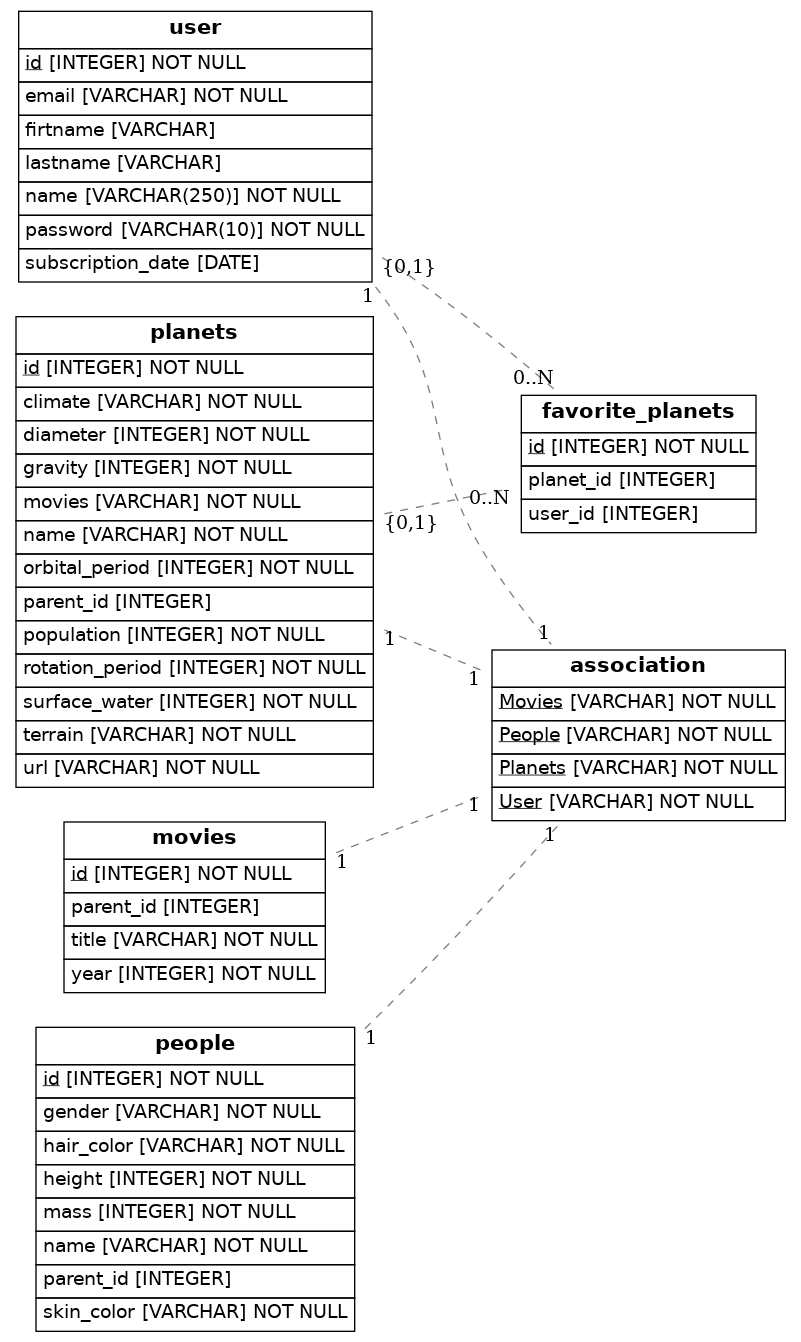
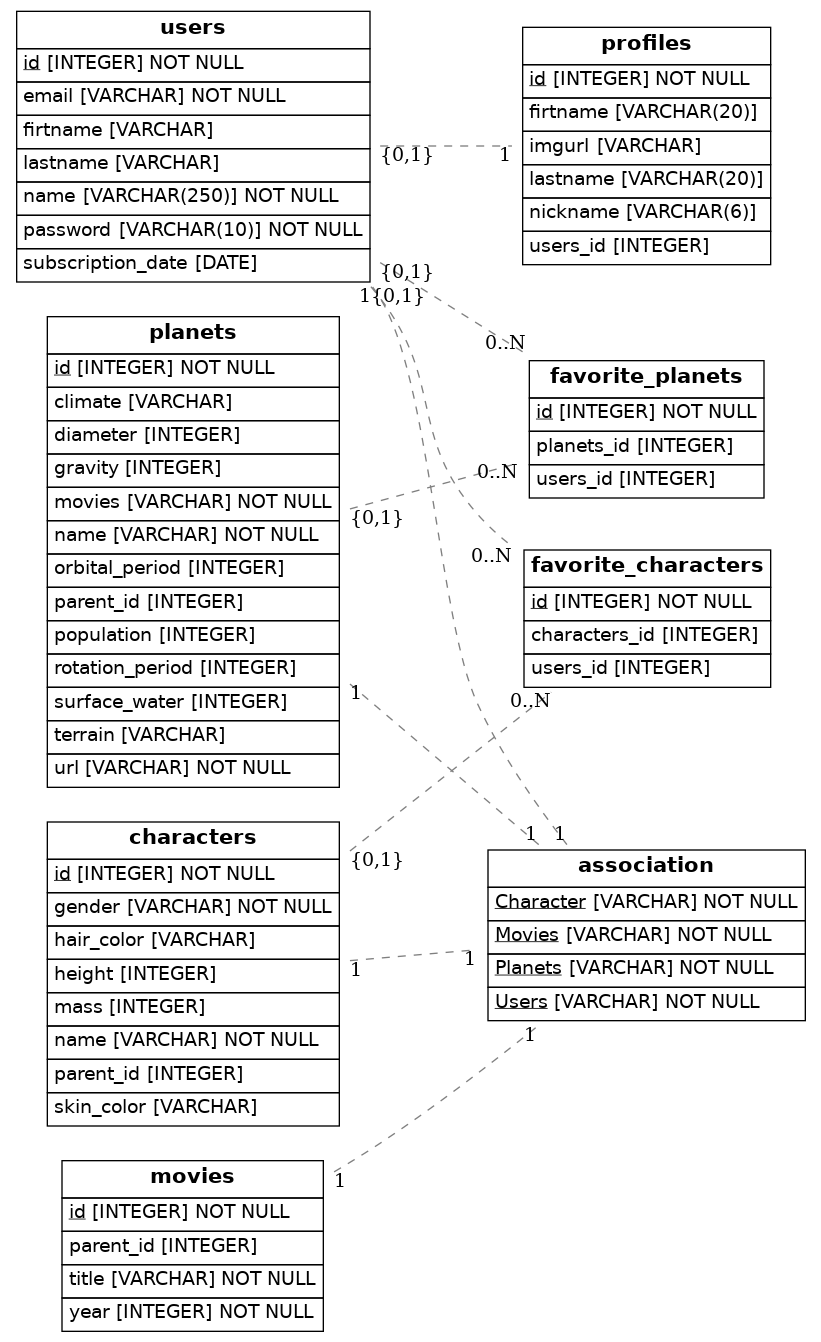
EveyZeran SW Done

diff --git a/src/models.py b/src/models.py
@@ -8,23 +8,18 @@ from eralchemy2 import render_er
 
 Base = declarative_base()
 
-# OPCION 2: Ejercicio con tabla de asociaciones
-
-# crear tabla de asociciones para todas las relaciones
-
+#Usando modelo con tabla de relaciones:
 association_table = Table('association', Base.metadata,
-    Column('User', String, ForeignKey('user.id'), primary_key=True),
+    Column('Users', String, ForeignKey('users.id'), primary_key=True),
     Column('Movies', String, ForeignKey('movies.id'), primary_key=True),
     Column('Planets', String, ForeignKey('planets.id'), primary_key=True),
-    Column('People', String, ForeignKey('people.id'), primary_key=True),
+    Column('Character', String, ForeignKey('characters.id'), primary_key=True),
 )
 
-# Crear tabla: user, planets, movies y people.
+# Crear tabla: users, planets, movies y character.
+class Users(Base):
+    __tablename__ = 'users'
 
-class User(Base):
-    __tablename__ = 'user'
-    # Here we define columns for the table person
-    # Notice that each column is also a normal Python instance attribute.
     id = Column(Integer, primary_key=True)
     name = Column(String(250), nullable=False)
     lastname = Column(String())
@@ -32,59 +27,71 @@ class User(Base):
     email = Column(String(), nullable=False)
     password = Column(String(10), nullable=False)
     subscription_date = Column(Date)
-    # Añadimos los "hijos" asociando a la tabla los id
-    # El atributo secondary se utiliza para especificar la tabla de asociación que conecta las dos tablas principales en una relación muchos a muchos
-    # Back ref relaciona planets con User.
-    children = relationship('Planets', secondary=association_table, backref='User')
-    children = relationship('Movies', secondary=association_table, backref='User')
-    children = relationship('People', secondary=association_table, backref='User')
+    children = relationship('Planets', secondary=association_table, backref='Users')
+    children = relationship('Movies', secondary=association_table, backref='Users')
+    children = relationship('Characters', secondary=association_table, backref='Users')
+
+class Profiles(Base):
+    __tablename__ = 'profiles'
+    id = Column(Integer, primary_key=True)
+    lastname = Column(String(20))
+    firtname = Column(String(20))
+    nickname = Column(String(6))
+    imgurl = Column(String())
+    users_id = Column(Integer, ForeignKey('users.id'), unique=True) #Define un user a un perfil únicamente
+    users = relationship(Users)
+
 
 class Planets(Base):
     __tablename__ = 'planets'
     id = Column(Integer, primary_key = True)
     name = Column(String, nullable=False)
-    diameter = Column(Integer, nullable=False)
-    rotation_period = Column(Integer, nullable=False)
-    orbital_period = Column(Integer, nullable=False)
-    gravity = Column(Integer, nullable=False)        
-    population = Column(Integer, nullable=False)
-    climate = Column(String, nullable=False)
-    terrain = Column(String, nullable=False)
-    surface_water = Column(Integer, nullable=False)
+    diameter = Column(Integer)
+    rotation_period = Column(Integer)
+    orbital_period = Column(Integer)
+    gravity = Column(Integer)        
+    population = Column(Integer)
+    climate = Column(String)
+    terrain = Column(String)
+    surface_water = Column(Integer)
     url = Column(String, nullable=False) 
     movies = Column(String, nullable=False)
-    # Padre = User
-    parent_id = Column(Integer, ForeignKey('User.id'))            
+    parent_id = Column(Integer, ForeignKey('Users.id'))            
  
 class Movies(Base):
     __tablename__ = 'movies'
     id = Column(Integer, primary_key = True)
     title = Column(String, nullable=False)
     year  = Column(Integer, nullable=False)
-    parent_id = Column(Integer, ForeignKey('User.id'))  
+    parent_id = Column(Integer, ForeignKey('Users.id'))  
 
-class People(Base):
-    __tablename__ = 'people'
+class Characters(Base):
+    __tablename__ = 'characters'
     id = Column(Integer, primary_key = True)
     name = Column(String, nullable=False)
     gender = Column(String, nullable=False)
-    height = Column(Integer, nullable=False)
-    mass = Column(Integer, nullable=False)
-    hair_color = Column(String, nullable=False)
-    skin_color = Column(String, nullable=False)
-    parent_id = Column(Integer, ForeignKey('User.id'))  
+    height = Column(Integer)
+    mass = Column(Integer)
+    hair_color = Column(String)
+    skin_color = Column(String)
+    parent_id = Column(Integer, ForeignKey('Users.id'))  
+
+#Creamos las tablas de favoritos. Opción1:
+class FavoriteCharacters(Base):
+    __tablename__ = "favorite_characters"
+    id = Column(Integer, primary_key=True)
+    users_id = Column(Integer, ForeignKey('users.id'))
+    characters_id = Column(Integer, ForeignKey('characters.id'))
+    users = relationship(Users) 
+    characters = relationship (Characters)
 
 class FavoritePlanets(Base):
-    __tablename__ = 'favorite_planets'
+    __tablename__ = "favorite_planets"
     id = Column(Integer, primary_key=True)
-    # Hay que definir la columna = clave foránea
-    user_id = Column(Integer, ForeignKey(User.id))
-    # Definir la relación de esa FK
-    user = relationship(User) # Aquí se debe definir que FK utiliza esta relación
-    planet_id = Column(Integer, ForeignKey(Planets.id))
-    planet = relationship (Planets)
-
-        ## Draw from SQLAlchemy base
+    users_id = Column(Integer, ForeignKey('users.id'))
+    planets_id = Column(Integer, ForeignKey('planets.id'))
+    users = relationship(Users) 
+    planets = relationship (Planets)
 
 
 
